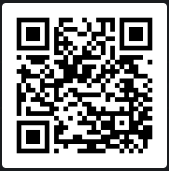
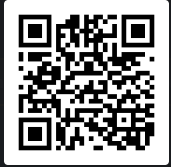
Add files via upload

diff --git a/index.html b/index.html
@@ -14316,7 +14316,7 @@ Thank you for your assistance.`;
                 
                 // Wallet addresses
                 const wallets = {
-                    btc: 'bc1qpvkxcpudlsg37h874eh2p8t8c5742a0x0amxl6', // Bitcoin (BTC Network)
+                    btc: 'bc1q4ds5yxxlk8xr7ja9ttynzr6q9z4sp0wgutmajc', // Bitcoin (BTC Network)
                     eth: '0x4eb32cD8777cFB68E351Ce9F59fE222883F59ce1', // Ethereum (ETH Network)
                     pyusd: '0x4eb32cD8777cFB68E351Ce9F59fE222883F59ce1', // PayPal USD (ETH Network)
                     xrp: 'rDV4QdZqXugC15dxq5c3x7Gj9YXAMnkQxN', // XRP (XRP Network)
